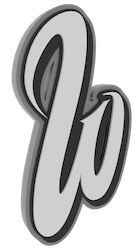
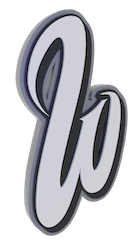
add loading animation

Changed region(s): [[0.0571, 0.0, 0.9429, 1.0], [0.5429, 0.3714, 0.5714, 0.4], [0.4857, 0.5429, 0.5143, 0.5714]]

diff --git a/src/pages/RthreeF.js b/src/pages/RthreeF.js
@@ -9,8 +9,9 @@ import Lights from '../components_3d/Lights';
 import Environment from '../components_3d/Environment';
 // import Suzanne from '../components_3d/Suzanne';
 import Shadow from '../components_3d/Shadow';
-import Branding from '../images/wccMin.png';
+import Branding from '../images/wccMinM.png';
 import MenuRight from './Menu';
+import Loading from '../Loading';
 
 import Close from "../images/Close.svg";
 import Open from "../images/Open.svg";
@@ -31,7 +32,7 @@ const RthreeF = () => {
   return (
     <>
       <div style={{ position: "absolute", zIndex: "9", padding: "25px" }}>
-        <img src={Branding} alt="logo" style={{ height: "20vh" }} />
+        <img src={Branding} alt="logo" style={{ height: "10vh" }} />
       </div>
       <div style={{ marginRight: "0px", top: "50vh", position: "absolute", zIndex: "9", }}>
         <button 
@@ -49,7 +50,7 @@ const RthreeF = () => {
         style={{ height: "20px"}}
       />
       <MenuRight style={rightMenuAnimation}/>
-      <Canvas
+      <Canvas style={{ position: "absoulte", zIndex: "999999999" }}
       concurrent
           noEvents={active}
           pixelRatio={window.devicePixelRatio}
@@ -62,7 +63,7 @@ const RthreeF = () => {
             }}
         >
         <Controls disable={set} />
-        <Suspense fallback={<Html center style={{ color: 'white' }}>Loading...</Html>}>
+        <Suspense fallback={<Html><Loading /></Html>}>
         <fog attach="fog" args={["black", 10, 20]} />
           <group>
             <Objects rotation={rotation} />

diff --git a/src/components_3d/Objects.js b/src/components_3d/Objects.js
@@ -5,10 +5,8 @@ import { a, useSpring } from 'react-spring/three';
 
 const Objects = ({ rotation }) => {
     const animatedProps = useSpring ({
-      clicked: rotation ? [0, 2, 0] : [0, 6, 0],
-
+      clicked: rotation ? [0, 0.1, 0] : [0, 2, 0],
     });
-    console.log(rotation);
     return (
         <>
         <a.group 
@@ -18,11 +16,11 @@ const Objects = ({ rotation }) => {
                 position={[0, -1, -5]}
                 rotation={[0, 3, 0]}
             />
-            <Shirt />
-            {/* <Suzanne 
+            {/* <Shirt /> */}
+            <Suzanne 
                 position={[4, -1, 2]}
                 rotation={[0, 1, 0]}
-            /> */}
+            />
             <Suzanne
                 position={[-5, -1, 2]}
                 rotation={[0, 5, 0]}

diff --git a/src/Loading.js b/src/Loading.js
@@ -1,0 +1,32 @@
+import React from 'react'
+import Lottie from 'react-lottie'
+import animationData from './lottie/loading.json'
+
+class Loading extends React.Component {
+
+
+    render(){
+  
+      const defaultOptions = {
+        loop: false,
+        autoplay: true,
+        animationData: animationData,
+        rendererSettings: {
+          preserveAspectRatio: 'xMidYMid slice'
+        }
+      };
+  
+      return(
+        <div>
+          <Lottie 
+                style={{position: "relative", marginTop: "-200px", marginLeft: "-200px"}}
+                options={defaultOptions}
+                height={400}
+                width={400}
+          />
+        </div>
+      )
+    }
+  }
+  
+  export default Loading
